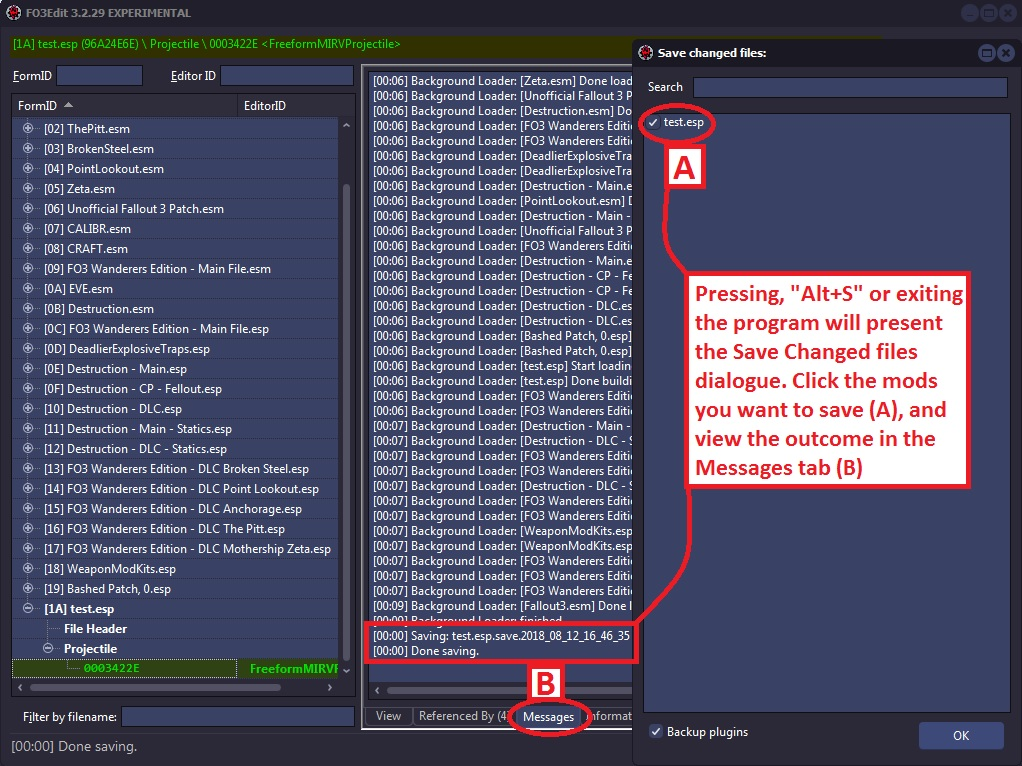
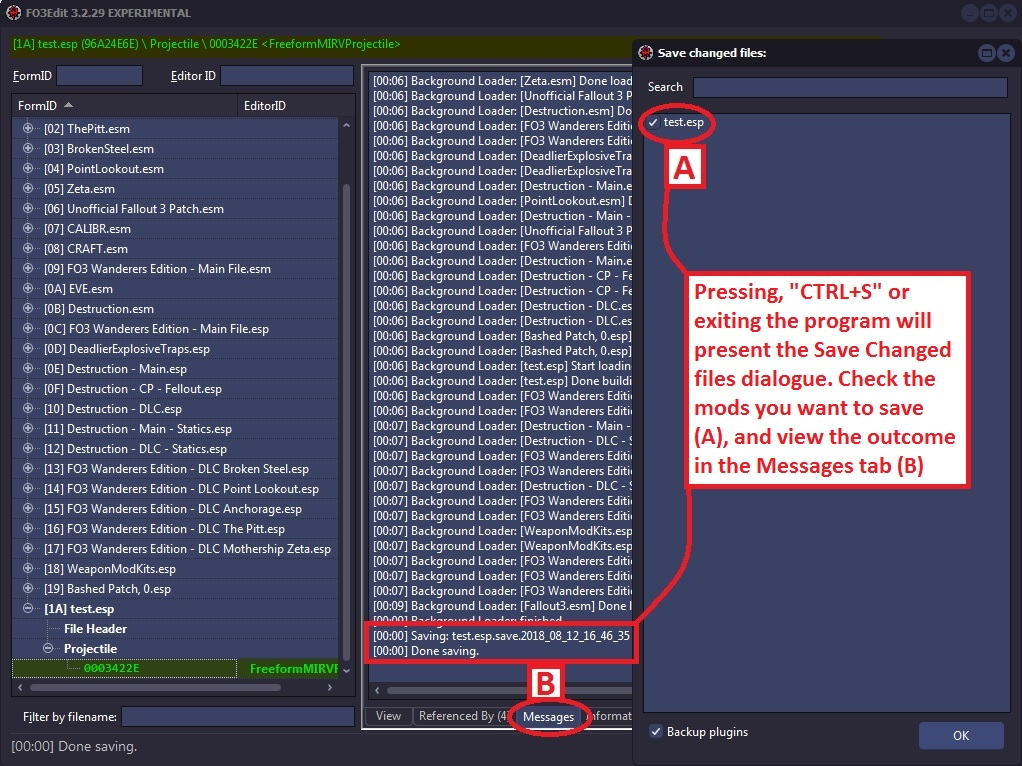
Fixed type in docs for saving the files

Changed region(s): [[0.6673, 0.3603, 0.9403, 0.6305]]

diff --git a/2-overview.html b/2-overview.html
@@ -401,7 +401,7 @@ title: xEdit Overview
             <div class="content">
                 <div class="p-img">
                     <p class="img"><img width="1028"  src="img/image026.jpg" ></p>
-                    <p>You can save your changes at any time by pressing, "Alt" and "S", and when you exit xEdit (if there are changes to save). If you have not saved for while, xEdit may also remind you that it's a good time to save. When the, "Save changed files" window is presented, click on the mods you want to save.</p>
+                    <p>You can save your changes at any time by pressing, "CTRL" and "S", and when you exit xEdit (if there are changes to save). If you have not saved for while, xEdit may also remind you that it's a good time to save. When the, "Save changed files" window is presented, click on the mods you want to save.</p>
                 </div>
                 <p>The output of each save is shown in the Messages Tab. It is important to check this, as sometimes errors in a mod file can prevent you from successfully saving it.</p>
             </div>
